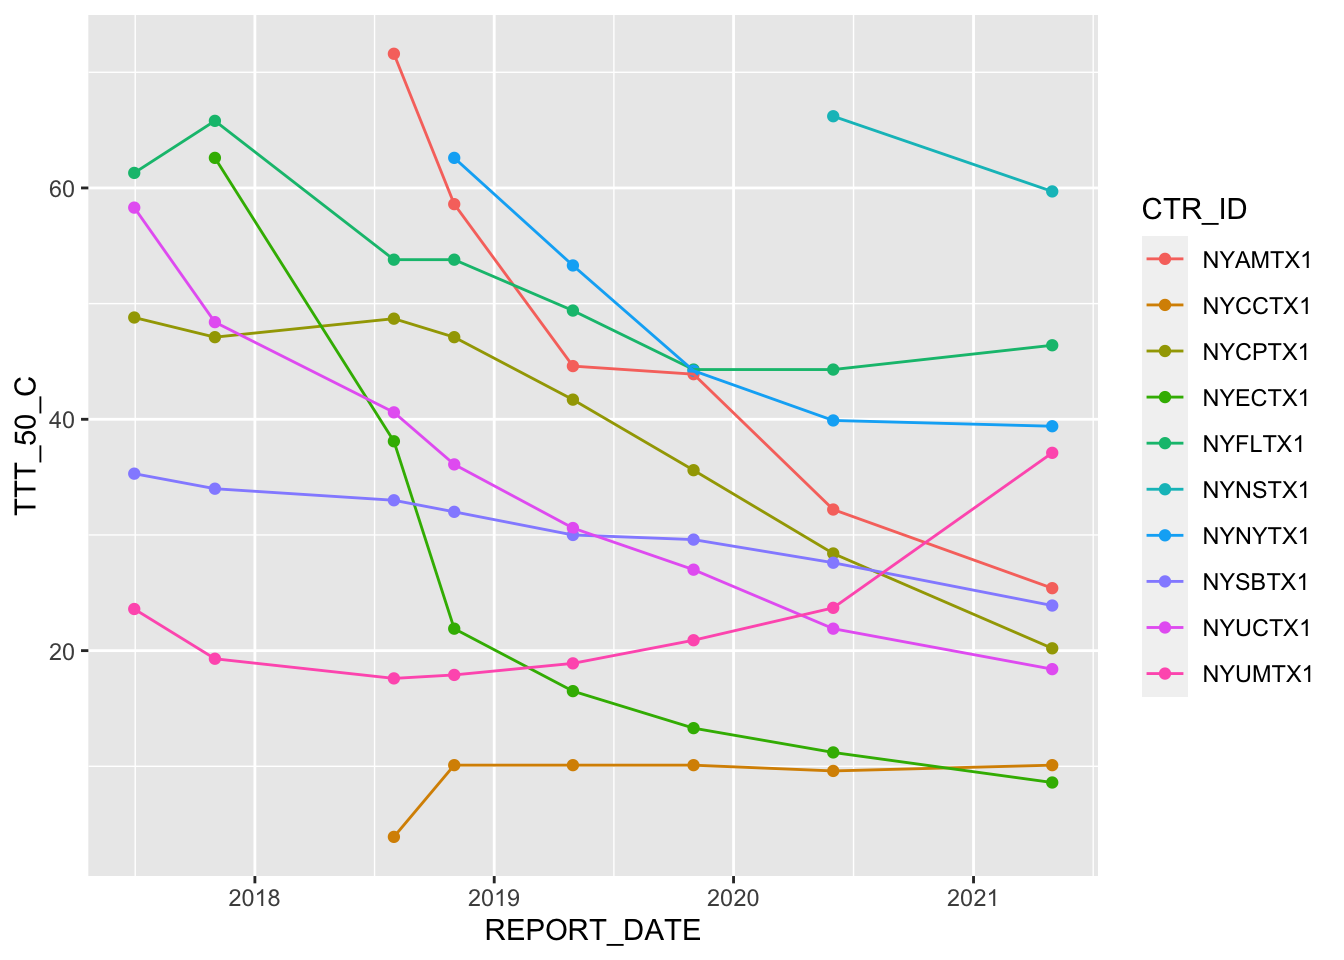
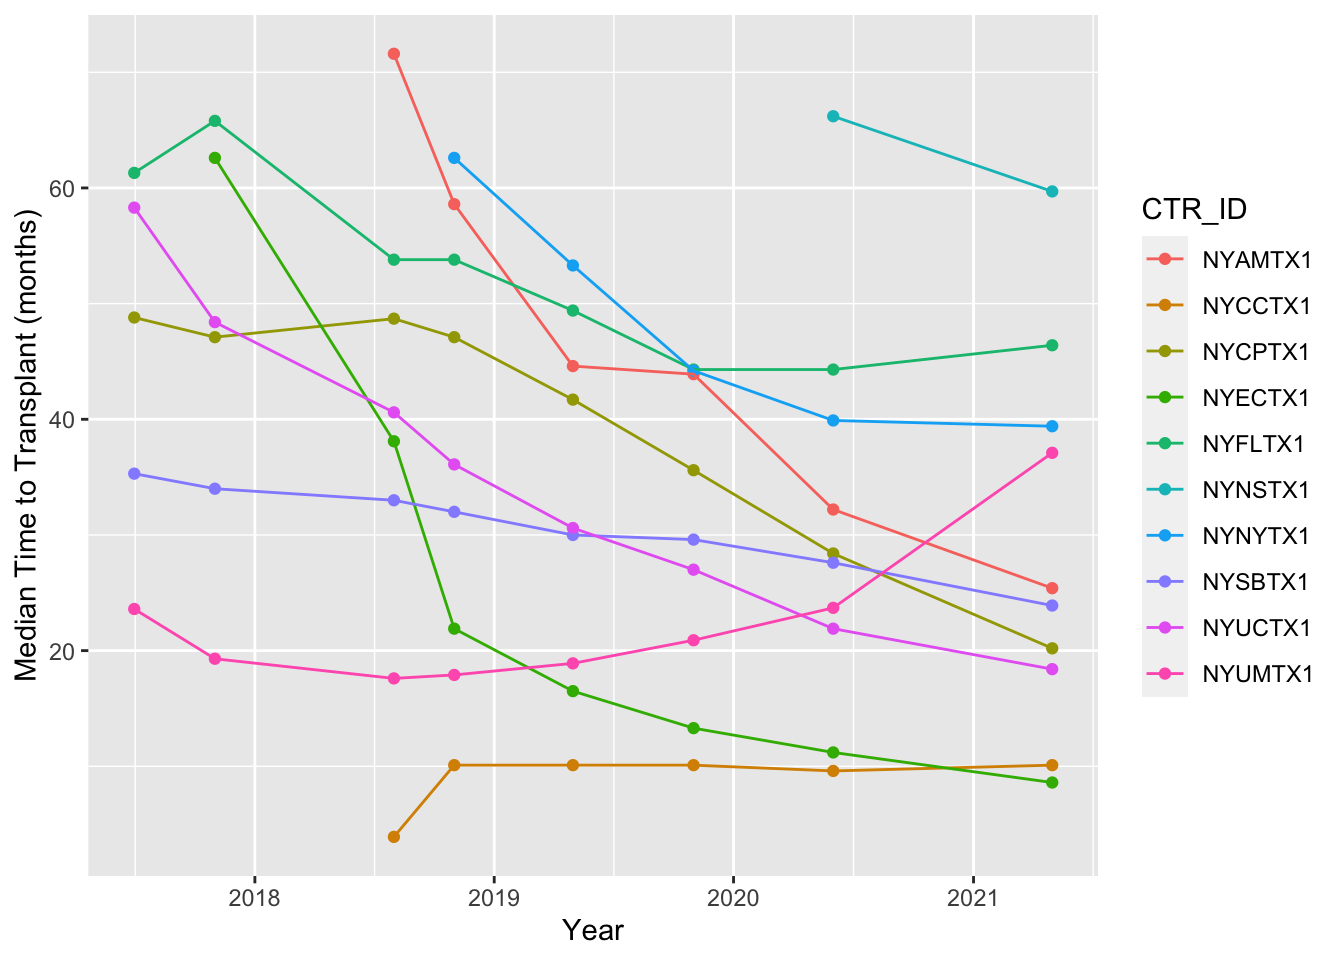
more plots just in case

Changed region(s): [[0.0, 0.2188, 0.0312, 0.7188], [0.3438, 0.9375, 0.5312, 1.0]]

diff --git a/plot_drafts.html b/plot_drafts.html
@@ -247,6 +247,9 @@ $(document).ready(function () {
       </ul>
       <ul class="nav navbar-nav navbar-right">
         <li>
+  <a href="about.html">About</a>
+</li>
+<li>
   <a href="dashboard.html">Dashboard</a>
 </li>
 <li>
@@ -284,97 +287,125 @@ $(document).ready(function () {
   mutate(REPORT_DATE = ymd_hms(REPORT_DATE, truncated = 3),
          REGION = as.factor(REGION),
          REGION = addNA(REGION))
-## Rows: 78940 Columns: 141
+## Rows: 78940 Columns: 156
 ## ── Column specification ────────────────────────────────────────────────────────
 ## Delimiter: &quot;,&quot;
 ## chr  (11): CTR_ID, ENTIRE_NAME, PRIMARY_CITY, PRIMARY_STATE, PRIMARY_ZIP, PR...
-## dbl (128): REGION, DISTANCE_WR, REGION_WR, WLA_ADDCEN_NC2, WLA_ST_NC2, WLA_E...
+## dbl (143): REGION, DISTANCE_WR, REGION_WR, WLA_ADDCEN_NC2, WLA_ST_NC2, WLA_E...
 ## lgl   (2): value, RCC_RET_C
 ## 
 ## ℹ Use `spec()` to retrieve the full column specification for this data.
 ## ℹ Specify the column types or set `show_col_types = FALSE` to quiet this message.
 subset_test = tail(all_data, 20)</code></pre>
-<pre class="r"><code>oa_v_time = all_data %&gt;%
-  filter(!is.na(OA_OVERALL_HR_MN_CENTER)) %&gt;%
-  select(CTR_ID, REGION, REPORT_DATE, OA_OVERALL_HR_MN_CENTER)  %&gt;%
-  group_by(REGION) %&gt;%
-  mutate(CTR_COLOR_TYPE = dense_rank(x = CTR_ID)) %&gt;%
-  ggplot(aes(x = REPORT_DATE, y = OA_OVERALL_HR_MN_CENTER, color = factor(CTR_COLOR_TYPE))) +
-  geom_point(show.legend = FALSE) +
-  geom_path(show.legend = FALSE) +
-  facet_wrap(~REGION)
-
-oa_v_time</code></pre>
-<p><img src="plot_drafts_files/figure-html/OA_over_time-1.png" width="672" /></p>
 <div id="need-to-separate-out-the-age-group-race-and-blood-type-variables" class="section level2">
 <h2>Need to separate out the age group, race, and blood type variables</h2>
 </div>
 <div id="naming-patern-is-stat_typeinfo_typevar_valyear_qualifier" class="section level2">
 <h2>naming patern is [stat_type]<em>[info_type][var_val]</em>[year_qualifier]</h2>
 <p>stat_type = WLC for waitlist, RLC for living donor tranpslant recipients, RCC for deceased donor recipients info_type = A for age group, B for blood type, R for race, G for gender, KI for primary disease (only on waitlist), or a 3 letter code for primary disease for tx recipients var_val = the actual information, for example A2 is age &lt;2, A10 is age 2-11, etc, RB is Black, GF is female, BAB is blood type AB year_qualifier can be removed, its all of the characters after the 2nd _ (ex in WLC_A2_ALLC2, the qualifier is ALLC2)</p>
-<pre class="r"><code>waitlist_demo_cols = c(&quot;WLC_A2_ALLC2&quot;, &quot;WLC_A10_ALLC2&quot;, &quot;WLC_A17_ALLC2&quot;, &quot;WLC_A34_ALLC2&quot;, &quot;WLC_A49_ALLC2&quot;, &quot;WLC_A64_ALLC2&quot;, 
-                       &quot;WLC_GM_ALLC2&quot;, &quot;WLC_GF_ALLC2&quot;, 
-                       &quot;WLC_RA_ALLC2&quot;, &quot;WLC_RB_ALLC2&quot;, &quot;WLC_RH_ALLC2&quot;, &quot;WLC_RO_ALLC2&quot;, &quot;WLC_RU_ALLC2&quot;, &quot;WLC_RW_ALLC2&quot;, 
-                       &quot;WLC_BAB_ALLC2&quot;, &quot;WLC_BA_ALLC2&quot;, &quot;WLC_BB_ALLC2&quot;, &quot;WLC_BO_ALLC2&quot;, &quot;WLC_BU_ALLC2&quot;,
-                       &quot;WLC_PRA80_ALLC2&quot;, 
-                       &quot;WLC_PTXY_ALLC2&quot;,
-                       &quot;WLC_KIDIA_ALLC2&quot;, &quot;WLC_KIGLO_ALLC2&quot;, &quot;WLC_KIHYP_ALLC2&quot;, &quot;WLC_KIMIS_ALLC2&quot;, &quot;WLC_KINEO_ALLC2&quot;, &quot;WLC_KIOTH_ALLC2&quot;, &quot;WLC_KIPOL_ALLC2&quot;, &quot;WLC_KIREN_ALLC2&quot;, &quot;WLC_KIRTR_ALLC2&quot;, &quot;WLC_KITUB_ALLC2&quot;, &quot;WLC_KICON_ALLC2&quot;)
+<pre class="r"><code># regex functions for later
 
-ddtx_demo_cols = c(&quot;RCC_A2_C&quot;, &quot;RCC_A10_C&quot;, &quot;RCC_A17_C&quot;, &quot;RCC_A34_C&quot;, &quot;RCC_A49_C&quot;, &quot;RCC_A64_C&quot;, &quot;RCC_GM_C&quot;, &quot;RCC_GF_C&quot;, &quot;RCC_RA_C&quot;, &quot;RCC_RB_C&quot;, &quot;RCC_RH_C&quot;, &quot;RCC_RO_C&quot;, &quot;RCC_RU_C&quot;, &quot;RCC_RW_C&quot;, &quot;RCC_BAB_C&quot;, &quot;RCC_BA_C&quot;, &quot;RCC_BB_C&quot;, &quot;RCC_BO_C&quot;, &quot;RCC_BMI20_C&quot;, &quot;RCC_BMI25_C&quot;, &quot;RCC_BMI30_C&quot;, &quot;RCC_DIA_C&quot;, &quot;RCC_GLO_C&quot;, &quot;RCC_HYP_C&quot;, &quot;RCC_MIS_C&quot;, &quot;RCC_NEO_C&quot;, &quot;RCC_OTK_C&quot;, &quot;RCC_POL_C&quot;, &quot;RCC_VAS_C&quot;, &quot;RCC_RET_C&quot;, &quot;RCC_TUB_C&quot;, &quot;RCC_CON_C&quot;, &quot;RCC_PRA80_C&quot;, &quot;RCC_PTXY_C&quot;)
+# get_col_cats = function(pattern, desc, df = all_data) {
+#   cat_cols = df %&gt;%
+#     select(matches(pattern)) %&gt;%
+#     names()
+#   
+#   return(cat_cols)
+# }
+# 
+# get_cat_type = function(category, col_cats) {
+#   for (col_cat %in% col_cats){
+#     if (category %in% col_cat)
+#   }
+#   
+# 
+# age_cols = map(&quot;[A-Z]{3}_A[1-9]&quot;, ~ get_col_cats(pattern = .x))
+# gender_cols = map(&quot;^WLC_G[FM]|^RC[CL]_G[FM]&quot;, ~ get_col_cats(pattern = .x))
+# race_cols = map(&quot;^WLC_R[A-Z]_|^RC[CL]_R[A-Z]_&quot;, ~ get_col_cats(pattern = .x))
+
+
+waitlist_demo_cols = c(&quot;WLC_A2_ALLC2&quot;, &quot;WLC_A10_ALLC2&quot;, &quot;WLC_A17_ALLC2&quot;, &quot;WLC_A34_ALLC2&quot;, &quot;WLC_A49_ALLC2&quot;, &quot;WLC_A64_ALLC2&quot;, &quot;WLC_A65P_ALLC2&quot;, &quot;WLC_A69_ALLC2&quot;, &quot;WLC_A70P_ALLC2&quot;, &quot;WLC_GM_ALLC2&quot;, &quot;WLC_GF_ALLC2&quot;, &quot;WLC_RA_ALLC2&quot;, &quot;WLC_RB_ALLC2&quot;, &quot;WLC_RH_ALLC2&quot;, &quot;WLC_RO_ALLC2&quot;, &quot;WLC_RU_ALLC2&quot;, &quot;WLC_RW_ALLC2&quot;, &quot;WLC_BAB_ALLC2&quot;, &quot;WLC_BA_ALLC2&quot;, &quot;WLC_BB_ALLC2&quot;, &quot;WLC_BO_ALLC2&quot;, &quot;WLC_BU_ALLC2&quot;,&quot;WLC_PRA80_ALLC2&quot;, &quot;WLC_PTXY_ALLC2&quot;, &quot;WLC_KIDIA_ALLC2&quot;, &quot;WLC_KIGLO_ALLC2&quot;, &quot;WLC_KIHYP_ALLC2&quot;, &quot;WLC_KIMIS_ALLC2&quot;, &quot;WLC_KINEO_ALLC2&quot;, &quot;WLC_KIOTH_ALLC2&quot;, &quot;WLC_KIPOL_ALLC2&quot;, &quot;WLC_KIREN_ALLC2&quot;, &quot;WLC_KIRTR_ALLC2&quot;, &quot;WLC_KITUB_ALLC2&quot;, &quot;WLC_KICON_ALLC2&quot;)
+
+ddtx_demo_cols = c(&quot;RCC_A2_C&quot;, &quot;RCC_A10_C&quot;, &quot;RCC_A17_C&quot;, &quot;RCC_A34_C&quot;, &quot;RCC_A49_C&quot;, &quot;RCC_A64_C&quot;, &quot;RCC_A65P_C&quot;, &quot;RCC_A69_C&quot;, &quot;RCC_A70P_C&quot;, &quot;RCC_GM_C&quot;, &quot;RCC_GF_C&quot;, &quot;RCC_RA_C&quot;, &quot;RCC_RB_C&quot;, &quot;RCC_RH_C&quot;, &quot;RCC_RO_C&quot;, &quot;RCC_RU_C&quot;, &quot;RCC_RW_C&quot;, &quot;RCC_BAB_C&quot;, &quot;RCC_BA_C&quot;, &quot;RCC_BB_C&quot;, &quot;RCC_BO_C&quot;, &quot;RCC_DIA_C&quot;, &quot;RCC_GLO_C&quot;, &quot;RCC_HYP_C&quot;, &quot;RCC_MIS_C&quot;, &quot;RCC_NEO_C&quot;, &quot;RCC_OTK_C&quot;, &quot;RCC_POL_C&quot;, &quot;RCC_VAS_C&quot;, &quot;RCC_RET_C&quot;, &quot;RCC_TUB_C&quot;, &quot;RCC_CON_C&quot;, &quot;RCC_PRA80_C&quot;, &quot;RCC_PTXY_C&quot;)
 
 ldtx_demo_cols = str_replace(ddtx_demo_cols, &quot;^RCC&quot;, &quot;RCL&quot;)
 ldtx_demo_cols = str_replace(ldtx_demo_cols, &quot;_RET_&quot;, &quot;_KIRET_&quot;)
 
 demo_cols = c(waitlist_demo_cols, ddtx_demo_cols, ldtx_demo_cols)
-demo_cols
-##   [1] &quot;WLC_A2_ALLC2&quot;    &quot;WLC_A10_ALLC2&quot;   &quot;WLC_A17_ALLC2&quot;   &quot;WLC_A34_ALLC2&quot;  
-##   [5] &quot;WLC_A49_ALLC2&quot;   &quot;WLC_A64_ALLC2&quot;   &quot;WLC_GM_ALLC2&quot;    &quot;WLC_GF_ALLC2&quot;   
-##   [9] &quot;WLC_RA_ALLC2&quot;    &quot;WLC_RB_ALLC2&quot;    &quot;WLC_RH_ALLC2&quot;    &quot;WLC_RO_ALLC2&quot;   
-##  [13] &quot;WLC_RU_ALLC2&quot;    &quot;WLC_RW_ALLC2&quot;    &quot;WLC_BAB_ALLC2&quot;   &quot;WLC_BA_ALLC2&quot;   
-##  [17] &quot;WLC_BB_ALLC2&quot;    &quot;WLC_BO_ALLC2&quot;    &quot;WLC_BU_ALLC2&quot;    &quot;WLC_PRA80_ALLC2&quot;
-##  [21] &quot;WLC_PTXY_ALLC2&quot;  &quot;WLC_KIDIA_ALLC2&quot; &quot;WLC_KIGLO_ALLC2&quot; &quot;WLC_KIHYP_ALLC2&quot;
-##  [25] &quot;WLC_KIMIS_ALLC2&quot; &quot;WLC_KINEO_ALLC2&quot; &quot;WLC_KIOTH_ALLC2&quot; &quot;WLC_KIPOL_ALLC2&quot;
-##  [29] &quot;WLC_KIREN_ALLC2&quot; &quot;WLC_KIRTR_ALLC2&quot; &quot;WLC_KITUB_ALLC2&quot; &quot;WLC_KICON_ALLC2&quot;
-##  [33] &quot;RCC_A2_C&quot;        &quot;RCC_A10_C&quot;       &quot;RCC_A17_C&quot;       &quot;RCC_A34_C&quot;      
-##  [37] &quot;RCC_A49_C&quot;       &quot;RCC_A64_C&quot;       &quot;RCC_GM_C&quot;        &quot;RCC_GF_C&quot;       
-##  [41] &quot;RCC_RA_C&quot;        &quot;RCC_RB_C&quot;        &quot;RCC_RH_C&quot;        &quot;RCC_RO_C&quot;       
-##  [45] &quot;RCC_RU_C&quot;        &quot;RCC_RW_C&quot;        &quot;RCC_BAB_C&quot;       &quot;RCC_BA_C&quot;       
-##  [49] &quot;RCC_BB_C&quot;        &quot;RCC_BO_C&quot;        &quot;RCC_BMI20_C&quot;     &quot;RCC_BMI25_C&quot;    
-##  [53] &quot;RCC_BMI30_C&quot;     &quot;RCC_DIA_C&quot;       &quot;RCC_GLO_C&quot;       &quot;RCC_HYP_C&quot;      
-##  [57] &quot;RCC_MIS_C&quot;       &quot;RCC_NEO_C&quot;       &quot;RCC_OTK_C&quot;       &quot;RCC_POL_C&quot;      
-##  [61] &quot;RCC_VAS_C&quot;       &quot;RCC_RET_C&quot;       &quot;RCC_TUB_C&quot;       &quot;RCC_CON_C&quot;      
-##  [65] &quot;RCC_PRA80_C&quot;     &quot;RCC_PTXY_C&quot;      &quot;RCL_A2_C&quot;        &quot;RCL_A10_C&quot;      
-##  [69] &quot;RCL_A17_C&quot;       &quot;RCL_A34_C&quot;       &quot;RCL_A49_C&quot;       &quot;RCL_A64_C&quot;      
-##  [73] &quot;RCL_GM_C&quot;        &quot;RCL_GF_C&quot;        &quot;RCL_RA_C&quot;        &quot;RCL_RB_C&quot;       
-##  [77] &quot;RCL_RH_C&quot;        &quot;RCL_RO_C&quot;        &quot;RCL_RU_C&quot;        &quot;RCL_RW_C&quot;       
-##  [81] &quot;RCL_BAB_C&quot;       &quot;RCL_BA_C&quot;        &quot;RCL_BB_C&quot;        &quot;RCL_BO_C&quot;       
-##  [85] &quot;RCL_BMI20_C&quot;     &quot;RCL_BMI25_C&quot;     &quot;RCL_BMI30_C&quot;     &quot;RCL_DIA_C&quot;      
-##  [89] &quot;RCL_GLO_C&quot;       &quot;RCL_HYP_C&quot;       &quot;RCL_MIS_C&quot;       &quot;RCL_NEO_C&quot;      
-##  [93] &quot;RCL_OTK_C&quot;       &quot;RCL_POL_C&quot;       &quot;RCL_VAS_C&quot;       &quot;RCL_KIRET_C&quot;    
-##  [97] &quot;RCL_TUB_C&quot;       &quot;RCL_CON_C&quot;       &quot;RCL_PRA80_C&quot;     &quot;RCL_PTXY_C&quot;
+
+  
+age_pats = c(&quot;A2&quot;, &quot;A10&quot;, &quot;A17&quot;, &quot;A34&quot;, &quot;A49&quot;, &quot;A64&quot;, &quot;A65P&quot;, &quot;A69&quot;, &quot;A70P&quot;)
+age_grps = c(&quot;Age &lt;2&quot;, &quot;Age 2-11&quot;, &quot;Age 12-17&quot;, &quot;Age 18-34&quot;, &quot;Age 35-49&quot;, &quot;Age 50-64&quot;, &quot;Age &gt;65&quot;, &quot;Age 65-69&quot;, &quot;Age 70+&quot; )
+names(age_grps) = age_pats
+
+race_pats = c(&quot;RA&quot;, &quot;RB&quot;, &quot;RH&quot;, &quot;RO&quot;, &quot;RU&quot;, &quot;RW&quot;)
+race_grps = c(&quot;Race Asian&quot;, &quot;Race Black&quot;, &quot;Ethnicity Hispanic&quot;, &quot;Race Other&quot;, &quot;Race Unknown&quot;, &quot;Race White&quot;)
+names(race_grps) = race_pats
+
+
+dz_pats = c(&quot;DIA&quot;, &quot;GLO&quot;, &quot;HYP&quot;, &quot;MIS&quot;, &quot;NEO&quot;, &quot;OTK&quot;, &quot;POL&quot;, &quot;VAS&quot;, &quot;RET&quot;, &quot;TUB&quot;, &quot;CON&quot;)
+dz_pats = c(dz_pats, c(paste(&quot;KI&quot;,dz_pats, sep = &quot;&quot;)))
+dz_grps = c(&quot;Dz: Diabetes&quot;, &quot;Dz: Glomerular&quot;, &quot;Dz: Hypertension&quot;, &quot;Dz: Missing&quot;, &quot;Dz: Neoplasms&quot;, &quot;Dz: Other&quot;, &quot;Dz: Polycystic&quot;, &quot;Dz: Vascular&quot;, &quot;Dz: Retransplant&quot;, &quot;Dz: Tubular/Interstial&quot;, &quot;Dz: Genetic&quot;)
+dz_grps = c(dz_grps, dz_grps)
+names(dz_grps) = dz_pats
+
 demographic_props = all_data %&gt;%
-  select(CTR_ID, REGION, REPORT_DATE, any_of(demo_cols)) %&gt;%
+  filter(year(REPORT_DATE) == 2021) %&gt;%
+  select(CTR_ID, REGION, REPORT_DATE, PRIMARY_STATE, any_of(demo_cols)) %&gt;%
   pivot_longer(cols = demo_cols, names_to = c(&quot;CATEGORY&quot;), values_to = c(&quot;CATEGORY_PROP&quot;)) %&gt;%
   mutate(ORG_TYPE = 
            as.factor(ifelse(str_sub(CATEGORY,1,3) == &quot;WLC&quot;, &quot;waitlist&quot;, 
-                            ifelse(substr(CATEGORY, 3,3) == &quot;L&quot;, &quot;living&quot;, &quot;deceased&quot;)))) %&gt;%
-  filter(!is.na(CATEGORY_PROP)) %&gt;%
-  group_by(CTR_ID, ORG_TYPE) %&gt;%
-  
-  ggplot(aes(fill = CATEGORY, y = CATEGORY_PROP, x = ORG_TYPE)) +
-    geom_bar(position = &quot;stack&quot;, stat = &quot;identity&quot;, show.legend = FALSE) +
-  scale_y_continuous(labels = scales::percent_format())
+                            ifelse(substr(CATEGORY, 3,3) == &quot;L&quot;, &quot;living&quot;, &quot;deceased&quot;))),
+         CAT_TYPE = &quot;&quot;,
+         CAT_TYPE = ifelse(str_detect(CATEGORY, &quot;^WLC_A[1-9]|^RC[CL]_A[1-9]&quot;), &quot;Age Group&quot;, CAT_TYPE),
+         CAT_TYPE = ifelse(str_detect(CATEGORY, &quot;^WLC_G[FM]|^RC[CL]_G[FM]&quot;), &quot;Gender&quot;, CAT_TYPE),
+         CAT_TYPE = ifelse(str_detect(CATEGORY, &quot;^WLC_R[A-Z]_|^RC[CL]_R[A-Z]_&quot;), &quot;Race&quot;, CAT_TYPE),
+         CAT_TYPE = ifelse(str_detect(CATEGORY, &quot;^WLC_B[ABOU]|^RC[CL]_B[ABOU]&quot;), &quot;Blood Type&quot;, CAT_TYPE),
+         CAT_TYPE = if_else(str_detect(CATEGORY, &quot;[A-Z]{3}_P[RT][AX]&quot;), &quot;High Ab Risk&quot;, CAT_TYPE), 
+         CAT_TYPE = if_else((CAT_TYPE == &quot;&quot;) &amp; (str_detect(CATEGORY, &quot;^WLC_KI|^RC[CL]_.{3}_|^RC[CL]_KI&quot;)), &quot;Primary Disease&quot;, CAT_TYPE)) %&gt;%
+  mutate(
+    CATEGORY = if_else(CAT_TYPE == &quot;Age Group&quot;, 
+    unlist(lapply(str_replace(str_sub(CATEGORY, 5, -1), &quot;_[AC].*$&quot;, &quot;&quot;), function(x) age_grps[x])), CATEGORY),
+    CATEGORY = if_else(CAT_TYPE == &quot;Gender&quot;, if_else(str_sub(CATEGORY,6,6) == &quot;M&quot;, &quot;Gender: Male&quot;, &quot;Gender: Female&quot;), CATEGORY),
+    CATEGORY = if_else(CAT_TYPE == &quot;Race&quot;, 
+    unlist(lapply(str_replace(str_sub(CATEGORY, 5, -1), &quot;_[AC].*$&quot;, &quot;&quot;), function(x) race_grps[x])), CATEGORY),
+    CATEGORY = ifelse(CAT_TYPE == &quot;Blood Type&quot;, paste(&quot;Blood Type&quot;, str_replace(str_sub(CATEGORY, 6, -1), &quot;_[AC].*$&quot;, &quot;&quot;)), CATEGORY),
+    CATEGORY = ifelse(CAT_TYPE == &quot;High Ab Risk&quot;, if_else(CATEGORY == &quot;RCC_PRA80_C&quot;, &quot;Ab Risk: Peak PRA &gt;= 80%&quot;, &quot;Ab Risk: Retransplant&quot;), CATEGORY),
+    CATEGORY = if_else(CAT_TYPE == &quot;Primary Disease&quot;, 
+    unlist(lapply(str_replace(str_sub(CATEGORY, 5, -1), &quot;_[AC].*$&quot;, &quot;&quot;), function(x) dz_grps[x])), CATEGORY)) %&gt;%
+  mutate(CAT_TYPE = as.factor(CAT_TYPE),
+         CATEGORY = as.factor(CATEGORY)) %&gt;%
+  group_by(CTR_ID, ORG_TYPE, CAT_TYPE, CATEGORY) %&gt;%
+  filter(!is.na(CATEGORY_PROP))
 ## Note: Using an external vector in selections is ambiguous.
 ## ℹ Use `all_of(demo_cols)` instead of `demo_cols` to silence this message.
 ## ℹ See &lt;https://tidyselect.r-lib.org/reference/faq-external-vector.html&gt;.
 ## This message is displayed once per session.
-#   ggplot(aes(x = REPORT_DATE, y = OA_OVERALL_HR_MN_CENTER, color = factor(CTR_COLOR_TYPE))) +
-#   geom_point(show.legend = FALSE) +
-#   geom_path(show.legend = FALSE) +
-#   facet_wrap(~REGION)
-
-demographic_props</code></pre>
+demographic_props %&gt;%
+  filter(PRIMARY_STATE == &quot;NY&quot; &amp; CAT_TYPE == &quot;Age Group&quot;) %&gt;%
+  group_by(CTR_ID, ORG_TYPE, CATEGORY) %&gt;%
+  ggplot(aes(fill = CATEGORY, y = CATEGORY_PROP, x = ORG_TYPE)) +
+  geom_bar(position = &quot;stack&quot;, stat = &quot;identity&quot;, show.legend = TRUE) +
+    #geom_bar(position = &quot;stack&quot;, stat = &quot;identity&quot;, show.legend = FALSE) +
+  scale_y_continuous() +
+  theme(axis.text.x = element_text(angle = 45, vjust = 1, hjust=1)) +
+  labs(x = &quot;Center ID&quot;,
+       y = &quot;Proportion (%)&quot;,
+       colors = &quot;Age Group&quot;) +
+  facet_wrap(~CTR_ID, nrow = 3)</code></pre>
 <p><img src="plot_drafts_files/figure-html/stacked_bars-1.png" width="672" /></p>
+<pre class="r"><code># in one plot with facets, not great colors
+# demographic_props %&gt;%
+#   filter(CTR_ID == &quot;NYCPTX1&quot;) %&gt;%
+#   group_by(ORG_TYPE, CAT_TYPE) %&gt;%
+#   ggplot(aes(fill = factor(CATEGORY), y = CATEGORY_PROP, x = ORG_TYPE)) +
+#   geom_bar(position = &quot;stack&quot;, stat = &quot;identity&quot;, show.legend = TRUE) +
+#     #geom_bar(position = &quot;stack&quot;, stat = &quot;identity&quot;, show.legend = FALSE) +
+#   scale_y_continuous() +
+#   theme(axis.text.x = element_text(angle = 45, vjust = 1, hjust=1)) +
+#   labs(x = &quot;Waitlist or Organ Type&quot;,
+#        y = &quot;Proportion (%)&quot;) +
+#   facet_wrap(~CAT_TYPE, nrow = 2)</code></pre>
 <pre class="r"><code>ttt_cols = c(&quot;TTT_25_C&quot;, &quot;TTT_50_C&quot;, &quot;TTT_75_C&quot;)
 all_data %&gt;%
   filter(!is.na(TTT_50_C) &amp; !is.na(OA_OVERALL_HR_MN_CENTER) &amp; PRIMARY_STATE == &quot;NY&quot;) %&gt;%
@@ -382,9 +413,46 @@ all_data %&gt;%
   group_by(REPORT_DATE) %&gt;%
   ggplot(aes(x = REPORT_DATE, y = TTT_50_C, color = CTR_ID)) +
   geom_point() +
-  geom_line()</code></pre>
+  geom_line() + 
+  labs(y = &quot;Median Time to Transplant (months)&quot;, x = &quot;Year&quot;)</code></pre>
 <p><img src="plot_drafts_files/figure-html/ttt_v_time-1.png" width="672" /></p>
 <pre class="r"><code>  #facet_wrap( ~ as.Date(REPORT_DATE), scales = &#39;free&#39;)</code></pre>
+<pre class="r"><code>txrate_v_oa_v_time = all_data %&gt;%
+  filter(!is.na(OA_OVERALL_HR_MN_CENTER) &amp; PRIMARY_STATE == &quot;NY&quot;) %&gt;%
+  select(CTR_ID, REPORT_DATE, OA_OVERALL_HR_MN_CENTER, TMR_TXR_C2) %&gt;%
+  arrange(REPORT_DATE) %&gt;%
+  ggplot(aes(x = OA_OVERALL_HR_MN_CENTER, y = TMR_TXR_C2, color = CTR_ID)) +
+  geom_point() +
+  facet_wrap( ~ as.Date(REPORT_DATE), scales = &#39;free&#39;)
+
+txrate_v_oa_v_time</code></pre>
+<p><img src="plot_drafts_files/figure-html/txrate_v_oa_v_time-1.png" width="672" /></p>
+<pre class="r"><code>all_data %&gt;%
+  filter(!is.na(TTT_50_C) &amp; !is.na(OA_OVERALL_HR_MN_CENTER) &amp; PRIMARY_STATE == &quot;NY&quot;) %&gt;%
+  select(CTR_ID, REGION, REPORT_DATE, OA_OVERALL_HR_MN_CENTER, TTT_50_C) %&gt;%
+  filter(CTR_ID == &quot;NYUCTX1&quot; | CTR_ID == &quot;NYUMTX1&quot;) %&gt;%
+  group_by(REPORT_DATE) %&gt;%
+  ggplot(aes(x = REPORT_DATE, y = TTT_50_C, color = CTR_ID)) +
+  geom_point() +
+  geom_line() + 
+  geom_line(aes(y = OA_OVERALL_HR_MN_CENTER*10), size = 0.5, linetype = &quot;dashed&quot;) +
+  labs(y = &quot;Median Time to Transplant (months)&quot;, 
+       x = &quot;Year&quot;,
+       title = &quot;Median Time to Transplant (months) in NY State&quot;,
+       colors = &quot;Center ID&quot;) +
+  theme(legend.position = &quot;right&quot;) + 
+  guides(color = guide_legend(ncol = 1)) +
+
+# Custom the Y scales:
+  scale_y_continuous(
+    
+    # Features of the first axis
+    name = &quot;Median Time to Transplant (months)&quot;,
+    
+    # Add a second axis and specify its features
+    sec.axis = sec_axis(trans=~./10, name=&quot;Offer/Acceptance Ratio&quot;)
+  )</code></pre>
+<p><img src="plot_drafts_files/figure-html/oa_v_ttt-1.png" width="672" /></p>
 </div>
 <div id="variables-for-viz" class="section level1">
 <h1>Variables for viz</h1>
